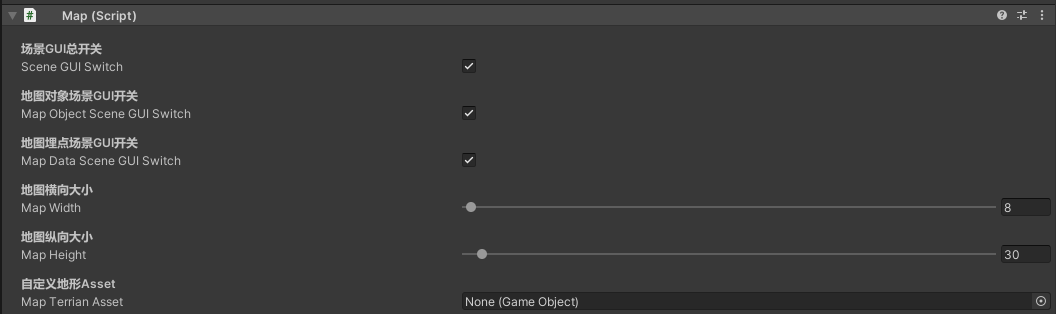
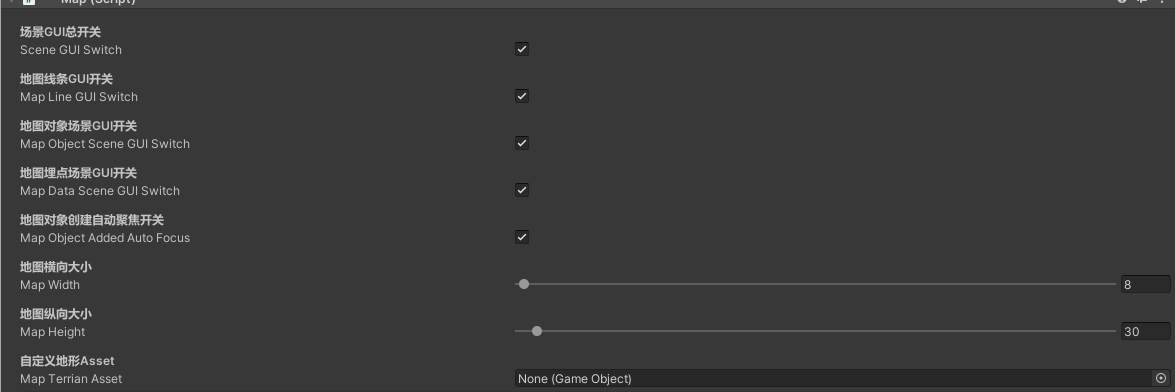
Site updated: 2024-05-20 01:19:54

diff --git a/2024/04/23/地图编辑器/index.html b/2024/04/23/地图编辑器/index.html
@@ -36,7 +36,7 @@
 <meta property="og:image" content="http://tonytang1990.github.io/img/Unity/MapEditor/MapObjectConfigInspectorArea.PNG">
 <meta property="og:image" content="http://tonytang1990.github.io/img/Unity/MapEditor/MapDataConfigInspectorArea.PNG">
 <meta property="og:image" content="http://tonytang1990.github.io/img/Unity/MapEditor/NavigationBakePreview.PNG">
-<meta property="og:updated_time" content="2024-05-14T16:42:15.503Z">
+<meta property="og:updated_time" content="2024-05-19T17:03:22.326Z">
 <meta name="twitter:card" content="summary">
 <meta name="twitter:title" content="地图编辑器">
 <meta name="twitter:description" content="Introduction游戏开发过程中，我们搭建关卡时需要一个工具去支持摆放场景物件和数据埋点编辑，从而支持快速搭建关卡和策划数据埋点。这一工具正是本章节需要实现的地图编辑器。
@@ -120,7 +120,7 @@
 		<div id="toc" class="toc-article">
 			<strong class="toc-title">文章目錄</strong>
 		
-			<ol class="toc"><li class="toc-item toc-level-1"><a class="toc-link" href="#Introduction"><span class="toc-number">1.</span> <span class="toc-text">Introduction</span></a></li><li class="toc-item toc-level-1"><a class="toc-link" href="#地图编辑器"><span class="toc-number">2.</span> <span class="toc-text">地图编辑器</span></a><ol class="toc-child"><li class="toc-item toc-level-2"><a class="toc-link" href="#需求"><span class="toc-number">2.1.</span> <span class="toc-text">需求</span></a></li><li class="toc-item toc-level-2"><a class="toc-link" href="#设计实现"><span class="toc-number">2.2.</span> <span class="toc-text">设计实现</span></a></li><li class="toc-item toc-level-2"><a class="toc-link" href="#配置窗口"><span class="toc-number">2.3.</span> <span class="toc-text">配置窗口</span></a><ol class="toc-child"><li class="toc-item toc-level-3"><a class="toc-link" href="#配置定义"><span class="toc-number">2.3.1.</span> <span class="toc-text">配置定义</span></a></li><li class="toc-item toc-level-3"><a class="toc-link" href="#配置窗口-1"><span class="toc-number">2.3.2.</span> <span class="toc-text">配置窗口</span></a><ol class="toc-child"><li class="toc-item toc-level-4"><a class="toc-link" href="#快捷按钮区域"><span class="toc-number">2.3.2.1.</span> <span class="toc-text">快捷按钮区域</span></a></li><li class="toc-item toc-level-4"><a class="toc-link" href="#自定义地图数据区域"><span class="toc-number">2.3.2.2.</span> <span class="toc-text">自定义地图数据区域</span></a></li><li class="toc-item toc-level-4"><a class="toc-link" href="#地图对象配置区域"><span class="toc-number">2.3.2.3.</span> <span class="toc-text">地图对象配置区域</span></a></li><li class="toc-item toc-level-4"><a class="toc-link" href="#地图埋点配置区域"><span class="toc-number">2.3.2.4.</span> <span class="toc-text">地图埋点配置区域</span></a></li></ol></li></ol></li><li class="toc-item toc-level-2"><a class="toc-link" href="#操作编辑Inspector"><span class="toc-number">2.4.</span> <span class="toc-text">操作编辑Inspector</span></a><ol class="toc-child"><li class="toc-item toc-level-3"><a class="toc-link" href="#基础数据配置区域"><span class="toc-number">2.4.1.</span> <span class="toc-text">基础数据配置区域</span></a></li><li class="toc-item toc-level-3"><a class="toc-link" href="#快捷操作按钮区域"><span class="toc-number">2.4.2.</span> <span class="toc-text">快捷操作按钮区域</span></a></li><li class="toc-item toc-level-3"><a class="toc-link" href="#地图对象编辑区域"><span class="toc-number">2.4.3.</span> <span class="toc-text">地图对象编辑区域</span></a></li><li class="toc-item toc-level-3"><a class="toc-link" href="#地图埋点编辑区域"><span class="toc-number">2.4.4.</span> <span class="toc-text">地图埋点编辑区域</span></a></li><li class="toc-item toc-level-3"><a class="toc-link" href="#寻路烘培"><span class="toc-number">2.4.5.</span> <span class="toc-text">寻路烘培</span></a></li><li class="toc-item toc-level-3"><a class="toc-link" href="#数据导出"><span class="toc-number">2.4.6.</span> <span class="toc-text">数据导出</span></a></li></ol></li><li class="toc-item toc-level-2"><a class="toc-link" href="#实战"><span class="toc-number">2.5.</span> <span class="toc-text">实战</span></a></li></ol></li><li class="toc-item toc-level-1"><a class="toc-link" href="#学习总结"><span class="toc-number">3.</span> <span class="toc-text">学习总结</span></a></li><li class="toc-item toc-level-1"><a class="toc-link" href="#Github"><span class="toc-number">4.</span> <span class="toc-text">Github</span></a></li><li class="toc-item toc-level-1"><a class="toc-link" href="#Reference"><span class="toc-number">5.</span> <span class="toc-text">Reference</span></a></li></ol>
+			<ol class="toc"><li class="toc-item toc-level-1"><a class="toc-link" href="#Introduction"><span class="toc-number">1.</span> <span class="toc-text">Introduction</span></a></li><li class="toc-item toc-level-1"><a class="toc-link" href="#地图编辑器"><span class="toc-number">2.</span> <span class="toc-text">地图编辑器</span></a><ol class="toc-child"><li class="toc-item toc-level-2"><a class="toc-link" href="#需求"><span class="toc-number">2.1.</span> <span class="toc-text">需求</span></a></li><li class="toc-item toc-level-2"><a class="toc-link" href="#设计实现"><span class="toc-number">2.2.</span> <span class="toc-text">设计实现</span></a></li><li class="toc-item toc-level-2"><a class="toc-link" href="#配置窗口"><span class="toc-number">2.3.</span> <span class="toc-text">配置窗口</span></a><ol class="toc-child"><li class="toc-item toc-level-3"><a class="toc-link" href="#配置定义"><span class="toc-number">2.3.1.</span> <span class="toc-text">配置定义</span></a></li><li class="toc-item toc-level-3"><a class="toc-link" href="#配置窗口-1"><span class="toc-number">2.3.2.</span> <span class="toc-text">配置窗口</span></a><ol class="toc-child"><li class="toc-item toc-level-4"><a class="toc-link" href="#快捷按钮区域"><span class="toc-number">2.3.2.1.</span> <span class="toc-text">快捷按钮区域</span></a></li><li class="toc-item toc-level-4"><a class="toc-link" href="#自定义地图数据区域"><span class="toc-number">2.3.2.2.</span> <span class="toc-text">自定义地图数据区域</span></a></li><li class="toc-item toc-level-4"><a class="toc-link" href="#地图对象配置区域"><span class="toc-number">2.3.2.3.</span> <span class="toc-text">地图对象配置区域</span></a></li><li class="toc-item toc-level-4"><a class="toc-link" href="#地图埋点配置区域"><span class="toc-number">2.3.2.4.</span> <span class="toc-text">地图埋点配置区域</span></a></li></ol></li></ol></li><li class="toc-item toc-level-2"><a class="toc-link" href="#操作编辑Inspector"><span class="toc-number">2.4.</span> <span class="toc-text">操作编辑Inspector</span></a><ol class="toc-child"><li class="toc-item toc-level-3"><a class="toc-link" href="#基础数据配置区域"><span class="toc-number">2.4.1.</span> <span class="toc-text">基础数据配置区域</span></a></li><li class="toc-item toc-level-3"><a class="toc-link" href="#快捷操作按钮区域"><span class="toc-number">2.4.2.</span> <span class="toc-text">快捷操作按钮区域</span></a></li><li class="toc-item toc-level-3"><a class="toc-link" href="#地图对象编辑区域"><span class="toc-number">2.4.3.</span> <span class="toc-text">地图对象编辑区域</span></a></li><li class="toc-item toc-level-3"><a class="toc-link" href="#地图埋点编辑区域"><span class="toc-number">2.4.4.</span> <span class="toc-text">地图埋点编辑区域</span></a></li><li class="toc-item toc-level-3"><a class="toc-link" href="#寻路烘培"><span class="toc-number">2.4.5.</span> <span class="toc-text">寻路烘培</span></a></li><li class="toc-item toc-level-3"><a class="toc-link" href="#数据导出"><span class="toc-number">2.4.6.</span> <span class="toc-text">数据导出</span></a></li></ol></li><li class="toc-item toc-level-2"><a class="toc-link" href="#实战"><span class="toc-number">2.5.</span> <span class="toc-text">实战</span></a><ol class="toc-child"><li class="toc-item toc-level-3"><a class="toc-link" href="#摄像机可见范围"><span class="toc-number">2.5.1.</span> <span class="toc-text">摄像机可见范围</span></a></li><li class="toc-item toc-level-3"><a class="toc-link" href="#摄像机可见范围动态创建"><span class="toc-number">2.5.2.</span> <span class="toc-text">摄像机可见范围动态创建</span></a></li><li class="toc-item toc-level-3"><a class="toc-link" href="#地图数据创建"><span class="toc-number">2.5.3.</span> <span class="toc-text">地图数据创建</span></a></li><li class="toc-item toc-level-3"><a class="toc-link" href="#碰撞数据相交判定"><span class="toc-number">2.5.4.</span> <span class="toc-text">碰撞数据相交判定</span></a></li></ol></li></ol></li><li class="toc-item toc-level-1"><a class="toc-link" href="#学习总结"><span class="toc-number">3.</span> <span class="toc-text">学习总结</span></a></li><li class="toc-item toc-level-1"><a class="toc-link" href="#Github"><span class="toc-number">4.</span> <span class="toc-text">Github</span></a></li><li class="toc-item toc-level-1"><a class="toc-link" href="#Reference"><span class="toc-number">5.</span> <span class="toc-text">Reference</span></a></li></ol>
 		
 		</div>
 		
@@ -172,9 +172,9 @@
 <li><strong>地图对象配置区域</strong></li>
 <li><strong>地图埋点配置区域</strong></li>
 </ol>
-<p>以上配置数据会成为我们后面操作编辑Inspector里用户可以添加操作的基础数据来源。</p>
+<p>以上配置数据会成为我们后面操作编辑Inspector里用户可以添加操作的基础数据来源，详细代码参见<strong>MapEditorWindow.cs</strong>。</p>
 <h4 id="快捷按钮区域">快捷按钮区域</h4><p>效果图：</p>
-<p><img src="img/Unity/MapEditor/ShortcutOperationArea.PNG" alt="ShortcutOperationArea"></p>
+<p><img src="/img/Unity/MapEditor/ShortcutOperationArea.PNG" alt="ShortcutOperationArea"></p>
 <p>可以看到目前提供了三个快捷按钮：</p>
 <ol>
 <li><strong>保存地图配置数据</strong> — 用于确保我们在配置窗口的数据配置修改保存到本地ScriptableObject Asset</li>
@@ -213,20 +213,25 @@
 <li><strong>通过MapDataType指定地图埋点类型。</strong></li>
 <li><strong>通过定义ConfId(关联配置Id)实现关联游戏内动态对象Id的功能。</strong></li>
 <li><strong>场景球体颜色用于配置地图埋点的GUI球体绘制颜色配置。</strong></li>
-<li><strong>初始选择用于配置地图埋点添加时的初始旋转配置(方便自定义大部分用到的初始宣旋转数据)</strong></li>
+<li><strong>初始旋转用于配置地图埋点添加时的初始旋转配置(方便自定义大部分用到的初始宣旋转数据)</strong></li>
 <li><strong>描述用于方便用户自定义取名，方便识别不同的地图埋点配置。</strong></li>
 </ol>
 <p>Note:</p>
 <ol>
 <li><strong>MapDataType需要代码自定义扩展后，编辑器才有更多选项</strong></li>
 </ol>
-<h2 id="操作编辑Inspector">操作编辑Inspector</h2><p>操作编辑Inspector主要负责实现对地图编辑对象和地图编辑埋点的一些相关操作面板，可视化GUI数据绘制，地图编辑自定义基础数据配置以及一些快捷操作按钮。</p>
+<h2 id="操作编辑Inspector">操作编辑Inspector</h2><p>操作编辑Inspector主要负责实现对地图编辑对象和地图编辑埋点的一些相关操作面板，可视化GUI数据绘制，地图编辑自定义基础数据配置以及一些快捷操作按钮，详细代码参见<strong>Map.cs和MapEditor.cs</strong>。</p>
 <h3 id="基础数据配置区域">基础数据配置区域</h3><p>基础数据配置区域用于GUI开关，地图大小，地图起始位置，自定义地形等配置。</p>
 <p>效果图:</p>
 <p><img src="/img/Unity/MapEditor/BasicDataConfigInspectorArea.PNG" alt="BasicDataConfigInspectorArea"></p>
 <p>自定义配置区域介绍：</p>
 <ol>
-<li><strong>地图横向大小和地图纵向大小</strong> — 顾名思义用于控制我们需要编辑的关卡地图的大小，会影响默认地图或自定义地图的大小和平铺</li>
+<li><strong>场景GUI总开关</strong> — 所有绘制GUI的总开关</li>
+<li><strong>地图线条GUI开关</strong> — 控制地图N*N的线条GUI绘制开关</li>
+<li><strong>地图对象场景GUI开关</strong> — 控制地图对象相关的GUI绘制开关</li>
+<li><strong>地图埋点场景GUI开关</strong> — 控制地图埋点相关的GUI绘制开关</li>
+<li><strong>地图对象创建自动聚焦开关</strong> — 控制地图对象创建后是否需要自动聚焦选中</li>
+<li><strong>地图横向大小和地图纵向大小</strong> — 用于控制我们需要编辑的关卡地图的大小，会影响默认地图或自定义地图的大小和平铺</li>
 <li><strong>游戏地图起始位置</strong> — 用于控制关卡的起始位置偏移，方便支持自定义不同起始位置的关卡设置</li>
 <li><strong>自定义地形Asset</strong> — 用于支持用户设置使用不同的地形资源</li>
 </ol>
@@ -313,7 +318,10 @@
 <li><strong>自定义更多的动态对象数据导出通过继承BaseMapDynamicExport定义。</strong></li>
 <li><strong>自定义地图埋点数据导出通过继承BaseMapDataExport定义</strong></li>
 </ol>
-<h2 id="实战">实战</h2><p>实战地图导出数据加载还原待添加</p>
+<h2 id="实战">实战</h2><h3 id="摄像机可见范围">摄像机可见范围</h3><p>待添加</p>
+<h3 id="摄像机可见范围动态创建">摄像机可见范围动态创建</h3><p>待添加</p>
+<h3 id="地图数据创建">地图数据创建</h3><p>待添加</p>
+<h3 id="碰撞数据相交判定">碰撞数据相交判定</h3><p>待添加</p>
 <h1 id="学习总结">学习总结</h1><ol>
 <li><strong>EditorWindow配置编辑器基础可配置数据，Inspector面板提供地图编辑器操作入口和数据序列化存储</strong></li>
 <li><strong>地图对象通过序列化位置+旋转+碰撞等数据可以实现场景编辑后一键更新所有场景对象效果</strong></li>
@@ -379,7 +387,7 @@
   <div id="toc" class="toc-aside">
   <strong class="toc-title">文章目錄</strong>
  
- <ol class="toc"><li class="toc-item toc-level-1"><a class="toc-link" href="#Introduction"><span class="toc-number">1.</span> <span class="toc-text">Introduction</span></a></li><li class="toc-item toc-level-1"><a class="toc-link" href="#地图编辑器"><span class="toc-number">2.</span> <span class="toc-text">地图编辑器</span></a><ol class="toc-child"><li class="toc-item toc-level-2"><a class="toc-link" href="#需求"><span class="toc-number">2.1.</span> <span class="toc-text">需求</span></a></li><li class="toc-item toc-level-2"><a class="toc-link" href="#设计实现"><span class="toc-number">2.2.</span> <span class="toc-text">设计实现</span></a></li><li class="toc-item toc-level-2"><a class="toc-link" href="#配置窗口"><span class="toc-number">2.3.</span> <span class="toc-text">配置窗口</span></a><ol class="toc-child"><li class="toc-item toc-level-3"><a class="toc-link" href="#配置定义"><span class="toc-number">2.3.1.</span> <span class="toc-text">配置定义</span></a></li><li class="toc-item toc-level-3"><a class="toc-link" href="#配置窗口-1"><span class="toc-number">2.3.2.</span> <span class="toc-text">配置窗口</span></a><ol class="toc-child"><li class="toc-item toc-level-4"><a class="toc-link" href="#快捷按钮区域"><span class="toc-number">2.3.2.1.</span> <span class="toc-text">快捷按钮区域</span></a></li><li class="toc-item toc-level-4"><a class="toc-link" href="#自定义地图数据区域"><span class="toc-number">2.3.2.2.</span> <span class="toc-text">自定义地图数据区域</span></a></li><li class="toc-item toc-level-4"><a class="toc-link" href="#地图对象配置区域"><span class="toc-number">2.3.2.3.</span> <span class="toc-text">地图对象配置区域</span></a></li><li class="toc-item toc-level-4"><a class="toc-link" href="#地图埋点配置区域"><span class="toc-number">2.3.2.4.</span> <span class="toc-text">地图埋点配置区域</span></a></li></ol></li></ol></li><li class="toc-item toc-level-2"><a class="toc-link" href="#操作编辑Inspector"><span class="toc-number">2.4.</span> <span class="toc-text">操作编辑Inspector</span></a><ol class="toc-child"><li class="toc-item toc-level-3"><a class="toc-link" href="#基础数据配置区域"><span class="toc-number">2.4.1.</span> <span class="toc-text">基础数据配置区域</span></a></li><li class="toc-item toc-level-3"><a class="toc-link" href="#快捷操作按钮区域"><span class="toc-number">2.4.2.</span> <span class="toc-text">快捷操作按钮区域</span></a></li><li class="toc-item toc-level-3"><a class="toc-link" href="#地图对象编辑区域"><span class="toc-number">2.4.3.</span> <span class="toc-text">地图对象编辑区域</span></a></li><li class="toc-item toc-level-3"><a class="toc-link" href="#地图埋点编辑区域"><span class="toc-number">2.4.4.</span> <span class="toc-text">地图埋点编辑区域</span></a></li><li class="toc-item toc-level-3"><a class="toc-link" href="#寻路烘培"><span class="toc-number">2.4.5.</span> <span class="toc-text">寻路烘培</span></a></li><li class="toc-item toc-level-3"><a class="toc-link" href="#数据导出"><span class="toc-number">2.4.6.</span> <span class="toc-text">数据导出</span></a></li></ol></li><li class="toc-item toc-level-2"><a class="toc-link" href="#实战"><span class="toc-number">2.5.</span> <span class="toc-text">实战</span></a></li></ol></li><li class="toc-item toc-level-1"><a class="toc-link" href="#学习总结"><span class="toc-number">3.</span> <span class="toc-text">学习总结</span></a></li><li class="toc-item toc-level-1"><a class="toc-link" href="#Github"><span class="toc-number">4.</span> <span class="toc-text">Github</span></a></li><li class="toc-item toc-level-1"><a class="toc-link" href="#Reference"><span class="toc-number">5.</span> <span class="toc-text">Reference</span></a></li></ol>
+ <ol class="toc"><li class="toc-item toc-level-1"><a class="toc-link" href="#Introduction"><span class="toc-number">1.</span> <span class="toc-text">Introduction</span></a></li><li class="toc-item toc-level-1"><a class="toc-link" href="#地图编辑器"><span class="toc-number">2.</span> <span class="toc-text">地图编辑器</span></a><ol class="toc-child"><li class="toc-item toc-level-2"><a class="toc-link" href="#需求"><span class="toc-number">2.1.</span> <span class="toc-text">需求</span></a></li><li class="toc-item toc-level-2"><a class="toc-link" href="#设计实现"><span class="toc-number">2.2.</span> <span class="toc-text">设计实现</span></a></li><li class="toc-item toc-level-2"><a class="toc-link" href="#配置窗口"><span class="toc-number">2.3.</span> <span class="toc-text">配置窗口</span></a><ol class="toc-child"><li class="toc-item toc-level-3"><a class="toc-link" href="#配置定义"><span class="toc-number">2.3.1.</span> <span class="toc-text">配置定义</span></a></li><li class="toc-item toc-level-3"><a class="toc-link" href="#配置窗口-1"><span class="toc-number">2.3.2.</span> <span class="toc-text">配置窗口</span></a><ol class="toc-child"><li class="toc-item toc-level-4"><a class="toc-link" href="#快捷按钮区域"><span class="toc-number">2.3.2.1.</span> <span class="toc-text">快捷按钮区域</span></a></li><li class="toc-item toc-level-4"><a class="toc-link" href="#自定义地图数据区域"><span class="toc-number">2.3.2.2.</span> <span class="toc-text">自定义地图数据区域</span></a></li><li class="toc-item toc-level-4"><a class="toc-link" href="#地图对象配置区域"><span class="toc-number">2.3.2.3.</span> <span class="toc-text">地图对象配置区域</span></a></li><li class="toc-item toc-level-4"><a class="toc-link" href="#地图埋点配置区域"><span class="toc-number">2.3.2.4.</span> <span class="toc-text">地图埋点配置区域</span></a></li></ol></li></ol></li><li class="toc-item toc-level-2"><a class="toc-link" href="#操作编辑Inspector"><span class="toc-number">2.4.</span> <span class="toc-text">操作编辑Inspector</span></a><ol class="toc-child"><li class="toc-item toc-level-3"><a class="toc-link" href="#基础数据配置区域"><span class="toc-number">2.4.1.</span> <span class="toc-text">基础数据配置区域</span></a></li><li class="toc-item toc-level-3"><a class="toc-link" href="#快捷操作按钮区域"><span class="toc-number">2.4.2.</span> <span class="toc-text">快捷操作按钮区域</span></a></li><li class="toc-item toc-level-3"><a class="toc-link" href="#地图对象编辑区域"><span class="toc-number">2.4.3.</span> <span class="toc-text">地图对象编辑区域</span></a></li><li class="toc-item toc-level-3"><a class="toc-link" href="#地图埋点编辑区域"><span class="toc-number">2.4.4.</span> <span class="toc-text">地图埋点编辑区域</span></a></li><li class="toc-item toc-level-3"><a class="toc-link" href="#寻路烘培"><span class="toc-number">2.4.5.</span> <span class="toc-text">寻路烘培</span></a></li><li class="toc-item toc-level-3"><a class="toc-link" href="#数据导出"><span class="toc-number">2.4.6.</span> <span class="toc-text">数据导出</span></a></li></ol></li><li class="toc-item toc-level-2"><a class="toc-link" href="#实战"><span class="toc-number">2.5.</span> <span class="toc-text">实战</span></a><ol class="toc-child"><li class="toc-item toc-level-3"><a class="toc-link" href="#摄像机可见范围"><span class="toc-number">2.5.1.</span> <span class="toc-text">摄像机可见范围</span></a></li><li class="toc-item toc-level-3"><a class="toc-link" href="#摄像机可见范围动态创建"><span class="toc-number">2.5.2.</span> <span class="toc-text">摄像机可见范围动态创建</span></a></li><li class="toc-item toc-level-3"><a class="toc-link" href="#地图数据创建"><span class="toc-number">2.5.3.</span> <span class="toc-text">地图数据创建</span></a></li><li class="toc-item toc-level-3"><a class="toc-link" href="#碰撞数据相交判定"><span class="toc-number">2.5.4.</span> <span class="toc-text">碰撞数据相交判定</span></a></li></ol></li></ol></li><li class="toc-item toc-level-1"><a class="toc-link" href="#学习总结"><span class="toc-number">3.</span> <span class="toc-text">学习总结</span></a></li><li class="toc-item toc-level-1"><a class="toc-link" href="#Github"><span class="toc-number">4.</span> <span class="toc-text">Github</span></a></li><li class="toc-item toc-level-1"><a class="toc-link" href="#Reference"><span class="toc-number">5.</span> <span class="toc-text">Reference</span></a></li></ol>
  
   </div>
 
